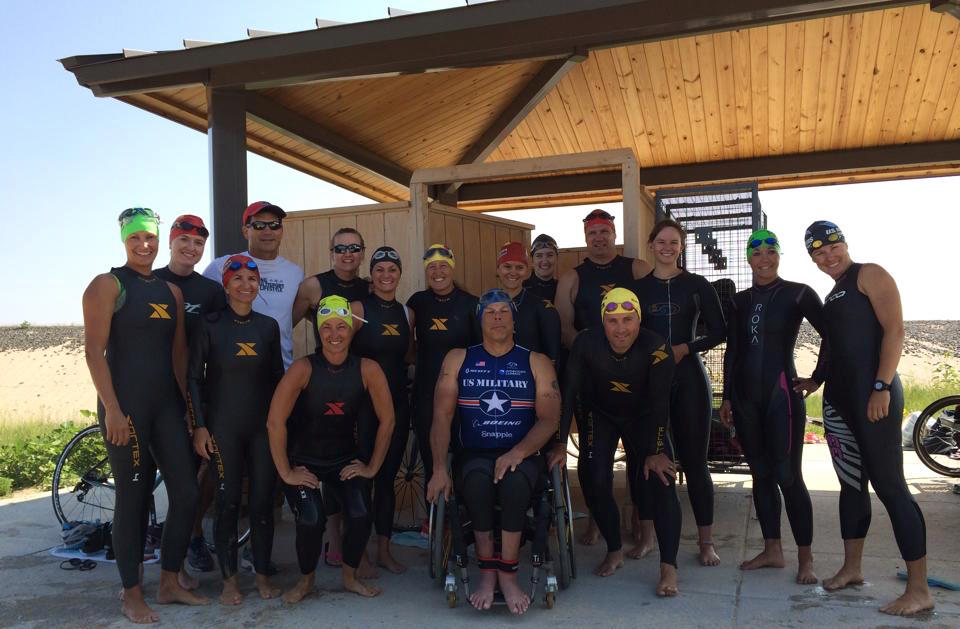
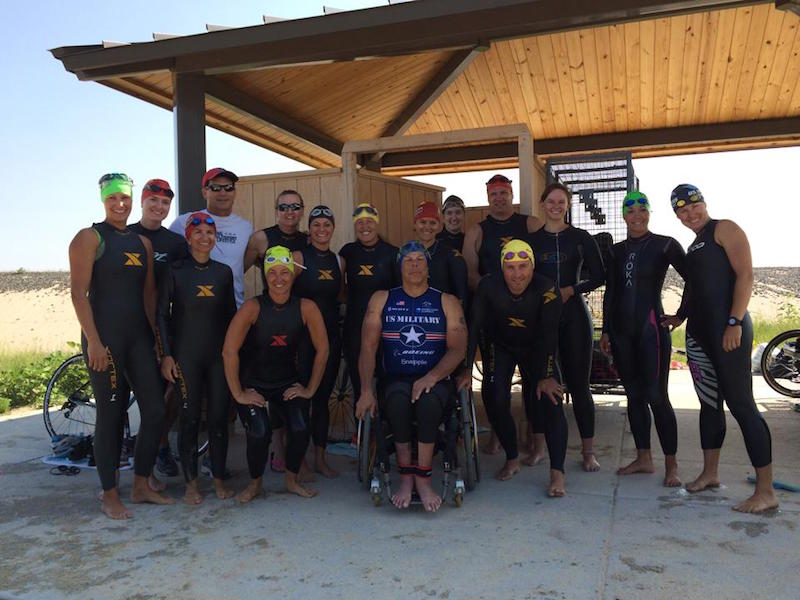
add photos to thank you post

diff --git a/assets/css/style.scss b/assets/css/style.scss
@@ -892,6 +892,24 @@ $pattern-background-size: 25em;
 			margin-bottom: 2em;
 		}
 	}
+
+/* Strave */
+
+	#strava {
+		background-attachment: scroll, scroll, scroll, fixed;
+		background-color: $color-three-bg;
+		background-image: url('images/light-tl.svg'), url('images/light-tr.svg'), url('images/overlay.png'), url('../images/banner2.jpg');
+		background-position: top left, top right, top left, bottom center;
+		background-repeat: no-repeat, no-repeat, repeat, no-repeat;
+		background-size: $pattern-background-size, $pattern-background-size, auto, cover;
+		color: $color-three-fg;
+		padding: 5em;
+		text-align: center;
+		
+		header {
+			margin-bottom: 2em;
+		}
+	}
 	
 /* Footer */
 
@@ -1050,4 +1068,16 @@ $pattern-background-size: 25em;
 		font-size: 0.7em;
 		color: #777;
 	}
+}
+
+.post header span {
+	font-size: 0.9em;
+}
+
+.post img.photo {
+	max-width: 100%;
+	margin-left: auto;
+	margin-right: auto;
+	display: block;
+	padding: 10px;
 }

diff --git a/_layouts/post.html b/_layouts/post.html
@@ -8,10 +8,11 @@
       {% include header.html %}
       </header>
 
-		<article id="main">
+		<article id="main" class="post">
 		    <header class="special container">
 		        <h2>{{ page.title }}</h2>
 		        {% if page.icon %}<span class="icon {{ page.icon }}"></span>{% endif %}
+		        <span>{{ page.date | date: "%-d %B %Y" }}</span>
 		    </header>        
 		    <section class="wrapper style4 container">
 		        <div class="content">

diff --git a/index.html b/index.html
@@ -74,6 +74,6 @@ description: Rock Tri Club is a triathalon, multisport, running, cycling, swimmi
   </div>
 </section>
 
-<section id="cta" >
+<section id="strava" >
   <iframe height='160' width='100%' frameborder='0' allowtransparency='true' scrolling='no' src='http://www.strava.com/clubs/47790/latest-rides/cc320539735d33d930ac41e763b73b7ac6d65925?show_rides=false'></iframe>
 </section>

diff --git a/_posts/2014-12-31-thank-you!.md b/_posts/2014-12-31-thank-you!.md
@@ -7,13 +7,23 @@ title: Thank You!
 
 As we close out 2014, we want to send a sincere thank you for a wonderful year. This club was founded by a couple people who wanted to work out together and grow stronger with the help of a great coach, Rich Kline. You all have kept that vision alive. You are all so welcoming and encouraging. Whether you are a top tier athlete or a newbie, your encouragement to each other is what makes us great. 
 
+<img src="/assets/photos/540371_10152845871729684_2845707877504440752_n.jpg" class="photo" />
+
 As I think back across the year, there are many stories that inspire me and make me proud to be a part of this group. I loved having Shannon show up for all our Sunday runs, race a 5k and even a half marathon while pregnant. If someone told me she ran herself to the birthing clinic, I would believe it! I also loved how everyone cheered Adriana on as she did her first open water swim after just beginning to put her face in the water! Or how about the greatest transition picture ever? As Pam was racing to a first place finish, she stopped to take a picture with Deke in the transition area.? Then there was YOLO. Over a quarter of our membership raced. Even though we raced as individuals, we celebrated as a team! There are so many stories that make me smile; I wish I could share them all. But what they all have in common is the spirit of teamwork. 
+
+<img src="/assets/photos/10341569_10152139268838231_5582356712499604113_n.jpg" class="photo" />
 
 As we head into 2015, your board has great vision. Our first priority though is to keep this team of friends working well together.  This year, we will be raising our membership fees from $30 to $50 a year, with a $5 discount for families. From the beginning, even before we had a website or a name, Rich Kline has been coaching and encouraging us. This will allow us to endow Coach Rich with a small monetary gift of appreciation for his effort, passion, encouragement and expertise.  We want you to know that we considered this decision carefully. What will this increase mean to you? You will still enjoy the coaching provided by Rich. As a member you will receive your sway bag. Included this year will be a long sleeve shirt, a swim cap, and a water bottle. You will also receive a mid-year gift that we're sure you'll enjoy. On January 25th, Andrew Dole will be leading a nutrition Question and Answer session. Mark your calendar for that! We are also no longer offering a combined 6202 Cycling Club membership. Instead, we are partnering with 6202 and every Rock Tri Club member will be welcome on every one of their rides!
 
+<img src="/assets/photos/10383902_10152602487144684_2498897212797660309_n.jpg" class="photo" />
+
 What does this partnership mean? Rock Tri Club will be stepping up to help lead more women's rides, clinics, slower pace rides, a time trial series that will include brick work. This will help enhance our cycling options. If you like to go fast, 6202 will continue to organize their full calendar of rides. This is exciting! We will also be putting on our inaugural trail race in October. As club members, you will receive a member discount on your entry! We will be putting on an open water clinic and dip and dash race to help you mentally prepare for your first race. We will also continue to put on our annual swim meet on February 8th. You can [register here](https://ti.to/rock-tri-club/rock-classic-2015).
 
+<img src="/assets/photos/10448637_926878020661481_7736320227892630435_o.jpg" class="photo" />
+
 We want to be transparent to all our members. We will be presenting our financials to you throughout the year. Our plans with the increased membership fees will also allow us to order an upgraded club tent as well as tear drop flags that will be at all club races. If you have any concerns at any time, we would love to hear from you. We welcome your feedback and want to continue to build on our great foundation. 
+
+<img src="/assets/photos/10603405_10152724750404684_6771732578901015154_n.jpg" class="photo" />
 
 Thank you for making 2014 such a great year. I hope you'll rejoin us in 2015! We'd love to see you at our kick off meeting on January 10th from 3-5pm at Carlos Miguels. Please [RSVP for that here](https://ti.to/rock-tri-club/2015-year-kick-off).
 
